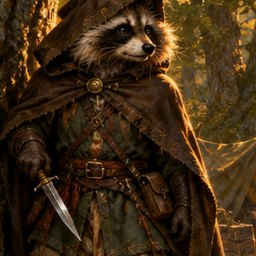
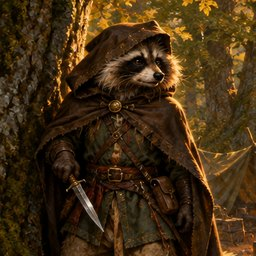
Free Company: wider portraits and card framing of the Raccoon Dog Spy and the Marmot Petardier

diff --git a/src/i18n/en/changelog.ts b/src/i18n/en/changelog.ts
@@ -4,6 +4,8 @@ import { register } from '../translate';
 
 // In preparation
 register({
+  "Wolna Kompania: portrety i karty Jenota Szpiega i Świstaka Petardnika są kadrowane szerzej: widać całą głowę w kapturze i sztylet oraz całą głowę i beczkę z prochem.":
+    "The Free Company: the Raccoon Dog Spy's and the Marmot Petardier's portraits and cards are framed wider: the whole hooded head with the dagger, and the whole head with the powder keg.",
   "Wolna Kompania: portret i karta Warana Wieżowego pokazują głowę i wieżyczkę z łucznikami (karta kadrowała szyję i nogę); karty pozostałych postaci Kompanii mają to samo kadrowanie co portrety.":
     "The Free Company: the Tower Monitor's portrait and card show its head and the turret with the archers (the card framed the neck and a leg); the cards of the other characters of the Company are framed like their portraits.",
   "Wolna Kompania: nowe dźwięki po uwagach: śmierć Sroki, Ropucha i Kocura (teraz po kociemu), atak Tchórza (rzut i tłuczona butla), Bobra (uderzenie siekierki), Jenota (cięcie sztyletu) i Świstaka (lont zakończony wybuchem).":

diff --git a/src/ui/cardCrops.ts b/src/ui/cardCrops.ts
@@ -101,7 +101,7 @@ export const CARD_CROPS: Record<string, [number, number, number]> = {
   lobsterKnight: [0.41, 0.3, 0.58],
   magpieThief: [0.4, 0.32, 0.44],
   mantisQueen: [0.652, 0.573, 0.854],
-  marmotPetard: [0.5, 0.349, 0.42],
+  marmotPetard: [0.45, 0.32, 0.54],
   martenSlasher: [0.45, 0.3, 0.44],
   marzanna: [0.366, 0.557, 0.885],
   mirageDancer: [0.319, 0.552, 0.896],
@@ -124,7 +124,7 @@ export const CARD_CROPS: Record<string, [number, number, number]> = {
   pincer: [0.547, 0.5, 1.0],
   planetnik: [0.478, 0.276, 0.552],
   polecatPoisoner: [0.38, 0.31, 0.42],
-  raccoonDogSpy: [0.35, 0.381, 0.42],
+  raccoonDogSpy: [0.33, 0.355, 0.52],
   ramGoat: [0.504, 0.5, 0.854],
   ravenSeer: [0.47, 0.28, 0.5],
   reefGolem: [0.529, 0.328, 0.615],

diff --git a/scripts/assets/free_cards.py b/scripts/assets/free_cards.py
@@ -13,8 +13,8 @@ KEEP_PORTRAIT = {'squirrelArcher'}
 CROP = {
     'foxCaptain': (.46, .21, .42), 'badgerSapper': (.50, .23, .44), 'ravenSeer': (.47, .28, .50), 'otterSmuggler': (.36, .21, .42),
     'otterScout': (.42, .37, .42), 'magpieThief': (.40, .32, .44), 'squirrelArcher': (.48, .35, .55), 'weaselKnife': (.45, .34, .42),
-    'polecatPoisoner': (.38, .31, .42), 'catFencer': (.46, .27, .44), 'wolverine': (.48, .29, .42), 'marmotPetard': (.50, .35, .42),
-    'toadGunner': (.37, .29, .44), 'beaverEngineer': (.42, .33, .42), 'raccoonDogSpy': (.35, .38, .42), 'towerMonitor': (.55, .37, .74),
+    'polecatPoisoner': (.38, .31, .42), 'catFencer': (.46, .27, .44), 'wolverine': (.48, .29, .42), 'marmotPetard': (.45, .32, .54),
+    'toadGunner': (.37, .29, .44), 'beaverEngineer': (.42, .33, .42), 'raccoonDogSpy': (.33, .355, .52), 'towerMonitor': (.55, .37, .74),
     'martenSlasher': (.45, .30, .44), 'wildcatBajka': (.48, .24, .44), 'hareHerbalist': (.53, .22, .48),
 }
 if __name__ == '__main__':

diff --git a/scripts/assets/card_crops.py b/scripts/assets/card_crops.py
@@ -35,10 +35,10 @@ MANUAL = {
     'polecatPoisoner': (0.38, 0.31, 0.42),
     'catFencer': (0.46, 0.27, 0.44),
     'wolverine': (0.48, 0.29, 0.42),
-    'marmotPetard': (0.5, 0.349, 0.42),
+    'marmotPetard': (0.45, 0.32, 0.54),
     'toadGunner': (0.37, 0.29, 0.44),
     'beaverEngineer': (0.42, 0.33, 0.42),
-    'raccoonDogSpy': (0.35, 0.381, 0.42),
+    'raccoonDogSpy': (0.33, 0.355, 0.52),
     'towerMonitor': (0.55, 0.37, 0.74),
     'martenSlasher': (0.45, 0.3, 0.44),
     'wildcatBajka': (0.48, 0.24, 0.44),

diff --git a/CHANGELOG.md b/CHANGELOG.md
@@ -6,6 +6,7 @@ Każdy wpis to jeden commit, a skrót commita stoi w nawiasie na końcu wpisu (c
 
 ## W przygotowaniu
 
+- Wolna Kompania: portrety i karty Jenota Szpiega i Świstaka Petardnika są kadrowane szerzej: widać całą głowę w kapturze i sztylet oraz całą głowę i beczkę z prochem.
 - Wolna Kompania: portret i karta Warana Wieżowego pokazują głowę i wieżyczkę z łucznikami (karta kadrowała szyję i nogę); karty pozostałych postaci Kompanii mają to samo kadrowanie co portrety.
 - Wolna Kompania: nowe dźwięki po uwagach: śmierć Sroki, Ropucha i Kocura (teraz po kociemu), atak Tchórza (rzut i tłuczona butla), Bobra (uderzenie siekierki), Jenota (cięcie sztyletu) i Świstaka (lont zakończony wybuchem).
 - Wolna Kompania: Ruda Atamanka, Borsuk Saper i Kruk Wieszczek mają animowane figury na polu bitwy (ruch, atak, trafienie, śmierć; Kruk wzbija się i lata). Pozostałe postaci Kompanii to na razie żetony z portretami.
